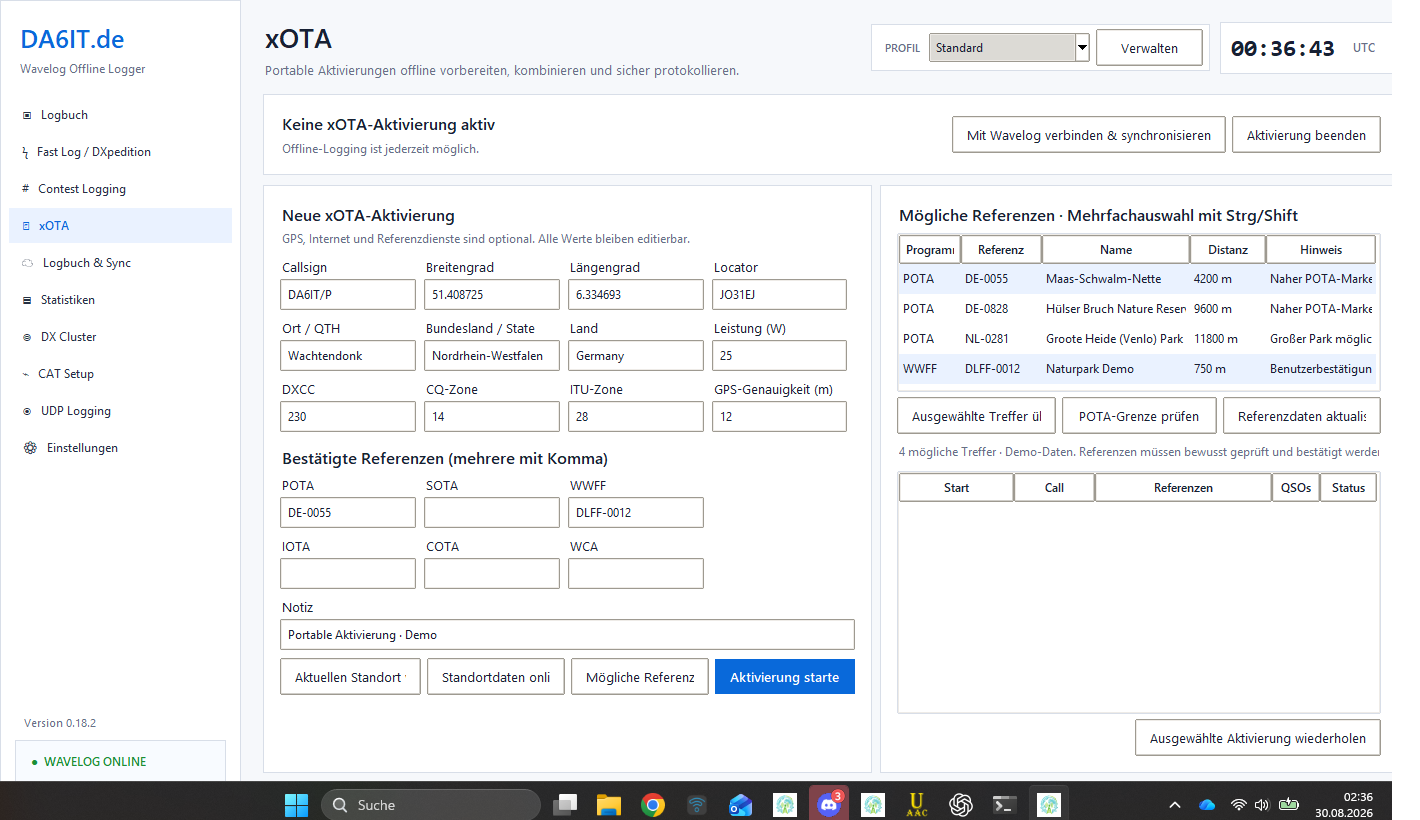
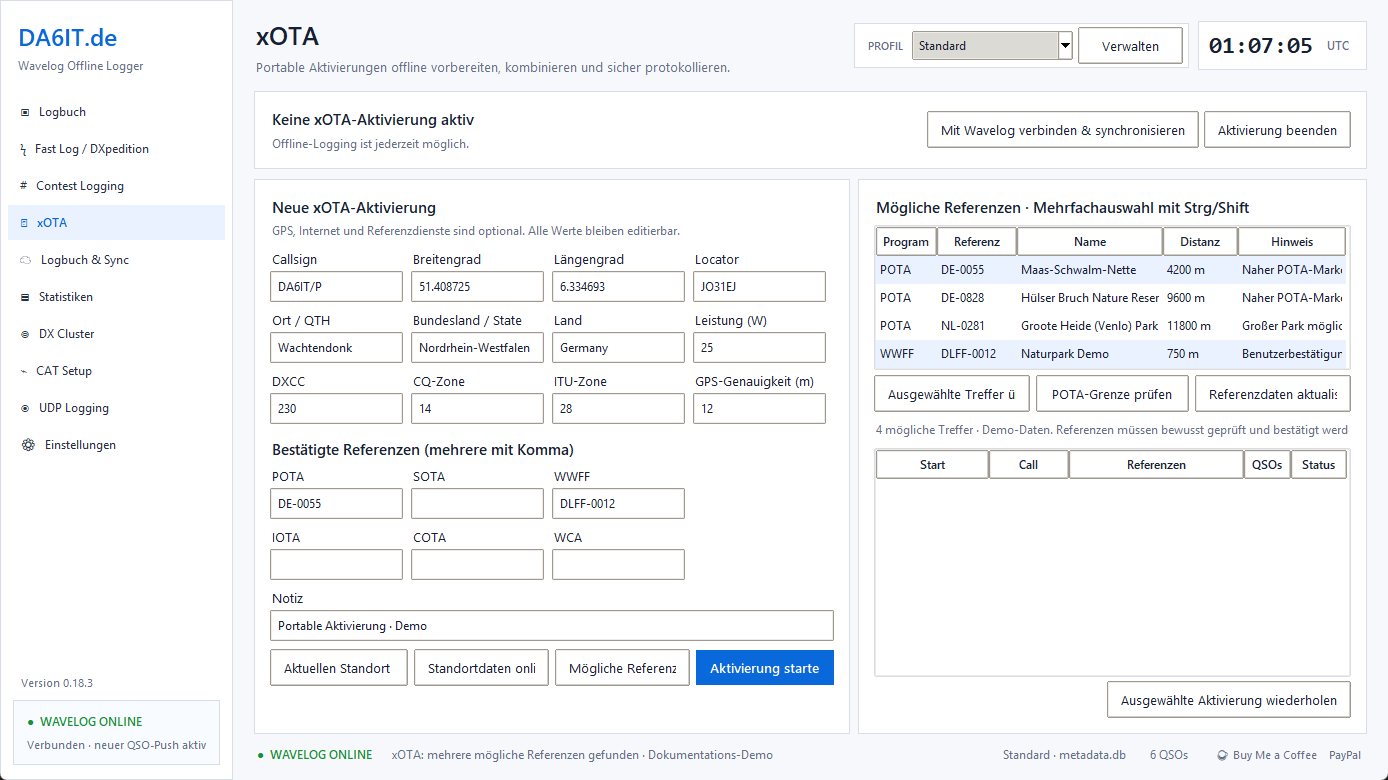
Release v0.18.3

diff --git a/scripts/capture-doc-screenshots.py b/scripts/capture-doc-screenshots.py
@@ -86,6 +86,43 @@ def main() -> int:
     created: list[Path] = []
     root: LoggerApp | None = None
 
+    class Rect(ctypes.Structure):
+        _fields_ = (
+            ("left", ctypes.c_long), ("top", ctypes.c_long),
+            ("right", ctypes.c_long), ("bottom", ctypes.c_long),
+        )
+
+    def windows_work_area() -> tuple[int, int, int, int]:
+        """Return the desktop work area, explicitly excluding the taskbar."""
+        if os.name != "nt":
+            return (0, 0, 10000, 10000)
+        rect = Rect()
+        if not ctypes.windll.user32.SystemParametersInfoW(0x0030, 0, ctypes.byref(rect), 0):
+            raise ctypes.WinError()
+        return (int(rect.left), int(rect.top), int(rect.right), int(rect.bottom))
+
+    work_left, work_top, work_right, work_bottom = windows_work_area()
+
+    def fit_window(widget: tk.Misc, width: int, height: int, x: int = 20, y: int = 8) -> None:
+        """Place a window completely inside the taskbar-free work area."""
+        x = max(work_left, min(int(x), work_right - 200))
+        y = max(work_top, min(int(y), work_bottom - 150))
+        # Tk geometry describes the client area. Windows adds the resize
+        # border and title bar outside it (8 px per side and about 31 px at
+        # the active DPI on a normal Windows 11 setup). Keep a deliberately
+        # larger reserve so the complete top-level HWND remains inside the
+        # taskbar-free work area at other DPI settings as well.
+        decoration_width = 32
+        decoration_height = 64
+        safe_width = min(int(width), work_right - x - decoration_width)
+        safe_height = min(int(height), work_bottom - y - decoration_height)
+        if safe_width < 800 or safe_height < 540:
+            raise RuntimeError(
+                f"Desktop work area is too small for documentation capture: "
+                f"{work_right - work_left}x{work_bottom - work_top}"
+            )
+        widget.geometry(f"{safe_width}x{safe_height}+{x}+{y}")
+
     def settle(widget: tk.Misc, delay: float = 0.22) -> None:
         widget.update_idletasks()
         widget.update()
@@ -113,11 +150,20 @@ def main() -> int:
         height = widget.winfo_height()
         if width < 10 or height < 10:
             raise RuntimeError(f"Widget for {filename} has no usable size: {width}x{height}")
+        if x < work_left or y < work_top or x + width > work_right or y + height > work_bottom:
+            raise RuntimeError(
+                f"Screenshot {filename} would include non-work-area pixels "
+                f"(window={x},{y},{width}x{height}; work area="
+                f"{work_left},{work_top},{work_right},{work_bottom})."
+            )
         target = output / filename
         target.parent.mkdir(parents=True, exist_ok=True)
-        # Use Windows' built-in System.Drawing instead of Pillow. This keeps
-        # documentation capture independent from a system Python/Pillow
-        # installation and avoids ACL differences in sandbox-built packages.
+        # Copy exactly the Tk client rectangle. fit_window() keeps that
+        # rectangle inside the taskbar-free work area and the documentation
+        # window is topmost, so no desktop, taskbar, title bar or surrounding
+        # pixels can enter the image. Avoid PrintWindow here: it sends a
+        # synchronous paint request to Tk while this thread waits for the
+        # helper and can therefore crash the Tcl/Tk process on Windows.
         capture_command = r"""
 $ErrorActionPreference = 'Stop'
 Add-Type -AssemblyName System.Drawing
@@ -212,7 +258,7 @@ try {
         """Exercise every main page at representative supported sizes."""
         page_names = ("log", "fast_log", "contest", "xota", "qsos", "stats", "cat", "dx_cluster", "udp_log", "settings")
         for width, height in ((900, 580), (1100, 680), (1355, 790), (1420, 820)):
-            window.geometry(f"{width}x{height}+20+20")
+            fit_window(window, width, height, 20, 8)
             settle(window, 0.04)
             for page_name in page_names:
                 window._show_page(page_name)
@@ -267,7 +313,7 @@ try {
 
     try:
         root = LoggerApp()
-        root.geometry("1420x820+40+40")
+        fit_window(root, 1420, 820, 20, 8)
         root.attributes("-topmost", True)
         settle(root, 0.35)
 
@@ -293,7 +339,7 @@ try {
         root.db.set_token("wl2_documentation_demo_token")
         root._load_settings_to_ui()
         validate_responsive_pages(root)
-        root.geometry("1420x820+40+40")
+        fit_window(root, 1420, 820, 20, 8)
         settle(root)
         root.set_station_profile.set("DA6IT Portable · Profil-ID 1")
 
@@ -373,7 +419,7 @@ try {
 
         # Contest Logging needs a little more vertical room than the other
         # pages so its header and complete session card remain visible.
-        root.geometry("1420x900+40+20")
+        fit_window(root, 1420, 900, 20, 8)
         root._show_page("contest")
         root.contest_preset_var.set("Dokumentations-Contest")
         root.contest_call_var.set("OK1DIX")
@@ -394,7 +440,7 @@ try {
         for line in ("026  I0VCE      30m CW", "025  HB9JCL     17m FT8", "024  F5RRS      15m USB"):
             root.contest_recent.insert("end", line)
         capture(root, "contest-logging.png")
-        root.geometry("1420x820+40+40")
+        fit_window(root, 1420, 820, 20, 8)
 
         # xOTA with several deliberately unconfirmed references. No GPS,
         # network service or real Wavelog station is contacted.
@@ -514,7 +560,7 @@ try {
             encoding="utf-8",
         )
         root = LoggerApp()
-        root.geometry("1420x820+40+40")
+        fit_window(root, 1420, 820, 20, 8)
         root.attributes("-topmost", True)
         root.call_var.set("DL1ABC")
         root.freq_var.set("14.205")

diff --git a/whats_new.py b/whats_new.py
@@ -2,6 +2,10 @@ from __future__ import annotations
 
 
 WHATS_NEW: dict[str, tuple[str, ...]] = {
+    "0.18.3": (
+        "Dokumentations-Screenshots werden jetzt garantiert ohne Windows-Taskleiste aufgenommen.",
+        "Die vollständige deutsche und englische Dokumentation aus v0.18.2 ist enthalten.",
+    ),
     "0.18.2": (
         "Die gesamte Oberfläche ist jetzt durchgängig auf Deutsch und Englisch verfügbar.",
         "Handbuch, Fehlerhilfe, Release-Dokumentation und Screenshot-Galerie liegen vollständig in beiden Sprachen bei.",
@@ -17,6 +21,10 @@ WHATS_NEW: dict[str, tuple[str, ...]] = {
 }
 
 WHATS_NEW_EN: dict[str, tuple[str, ...]] = {
+    "0.18.3": (
+        "Documentation screenshots are now guaranteed to exclude the Windows taskbar.",
+        "The complete German and English documentation from v0.18.2 is included.",
+    ),
     "0.18.2": (
         "The complete user interface is now consistently available in German and English.",
         "The user guide, troubleshooting, release documentation and screenshot gallery are included in both languages.",

diff --git a/bootstrap_windows.go b/bootstrap_windows.go
@@ -21,7 +21,7 @@ import (
 )
 
 const (
-	appVersion   = "0.18.2"
+	appVersion   = "0.18.3"
 	pythonURL    = "https://www.python.org/ftp/python/3.12.10/python-3.12.10-amd64.exe"
[1 lines of base64/hex data omitted]
 
@@ -466,7 +466,7 @@ func main() {
 	}
 	base := filepath.Join(local, "AFU-Tools", "WavelogOfflineLogger")
 	runtimeDir := filepath.Join(base, "runtime", "python312")
-	appDir := filepath.Join(base, "app-v0182")
+	appDir := filepath.Join(base, "app-v0183")
 
 	if err := writeAppFiles(appDir); err != nil {
 		messageBox("DA6IT.de Logger - Startfehler", "Programmdateien konnten nicht vorbereitet werden:\n"+err.Error(), 0x10)

diff --git a/selftest.py b/selftest.py
@@ -444,6 +444,7 @@ with TemporaryDirectory() as d:
 
 assert notes_for_version("0.18.0", "de") and notes_for_version("0.18.0", "en")
 assert notes_for_version("0.18.2", "de") and notes_for_version("0.18.2", "en")
+assert notes_for_version("0.18.3", "de") and notes_for_version("0.18.3", "en")
 print("BACKUP AND WHAT'S NEW SELFTEST OK")
 
 # Legacy v0.9 migration: copy single-profile metadata without touching rollback file.

diff --git a/logger_core.py b/logger_core.py
@@ -23,7 +23,7 @@ from pathlib import Path
 from typing import Any, Iterable
 
 APP_NAME = "DA6IT.de Wavelog Offline Logger"
-VERSION = "0.18.2"
+VERSION = "0.18.3"
 ADIF_VERSION = "3.1.7"
 USER_AGENT = f"DA6IT.de-Wavelog-Offline-Logger/{VERSION}"
 APP_ID_FIELD = "APP_AFUTOOLS_ID"

diff --git a/docs/RELEASE_NOTES.md b/docs/RELEASE_NOTES.md
@@ -1,8 +1,8 @@
-# DA6IT.de Wavelog Offline Logger v0.18.2
+# DA6IT.de Wavelog Offline Logger v0.18.3
 
 ## Deutsch
 
-v0.18.2 liefert erstmals das **gesamte Release vollständig auf Deutsch und Englisch** aus. Die Sprachwahl unter **Einstellungen → Allgemein** gilt für alle Stationsprofile. Neben Navigation und Hauptseiten sind nun auch Dialoge, Sicherheitsabfragen, Updates, Backup/Restore, Contest, xOTA, CAT, DX Cluster, UDP und dynamische Statusmeldungen durchgängig übersetzt.
+v0.18.3 ist das Dokumentations-Hotfix für das vollständig zweisprachige Release. Sämtliche deutschen und englischen Screenshots werden neu erzeugt und liegen garantiert vollständig innerhalb des Windows-Arbeitsbereichs – die Taskleiste erscheint nicht mehr in den Bildern. Eine Aufnahme außerhalb dieses Bereichs lässt das Release jetzt hart fehlschlagen.
 
 Neu im Release:
 
@@ -15,15 +15,15 @@ Neu im Release:
 
 Die Funktionen von v0.18.1 bleiben vollständig erhalten: Offline-first ADI, Wavelog-Sync, QRZ/Wavelog-Callbook, WSJT-X Live/UDP, CAT/Hamlib, DX Cluster, Contest, xOTA, Backup/Restore und verifizierte Updates.
 
-v0.18.2 wird weiterhin bewusst **ohne Windows-Code-Signatur** veröffentlicht. Die [Code-Signing-Richtlinie](https://github.com/DA6IT/Wavelog-Offline-Logger/blob/v0.18.2/CODE_SIGNING_POLICY.md) beschreibt den geplanten SignPath-Prozess.
+v0.18.3 wird weiterhin bewusst **ohne Windows-Code-Signatur** veröffentlicht. Die [Code-Signing-Richtlinie](https://github.com/DA6IT/Wavelog-Offline-Logger/blob/v0.18.3/CODE_SIGNING_POLICY.md) beschreibt den geplanten SignPath-Prozess.
 
-Dokumentation: [Deutsch](https://github.com/DA6IT/Wavelog-Offline-Logger/blob/v0.18.2/docs/USER_GUIDE.md) · [English](https://github.com/DA6IT/Wavelog-Offline-Logger/blob/v0.18.2/docs/en/USER_GUIDE.md)
+Dokumentation: [Deutsch](https://github.com/DA6IT/Wavelog-Offline-Logger/blob/v0.18.3/docs/USER_GUIDE.md) · [English](https://github.com/DA6IT/Wavelog-Offline-Logger/blob/v0.18.3/docs/en/USER_GUIDE.md)
 
 ---
 
 ## English
 
-v0.18.2 is the first release in which the **entire release is available in both German and English**. The language selected under **Settings → General** applies to every station profile. Navigation, main pages, dialogs, safety confirmations, updates, backup/restore, contest, xOTA, CAT, DX Cluster, UDP and dynamic status messages are now consistently localized.
+v0.18.3 is the documentation hotfix for the fully bilingual release. Every German and English screenshot is regenerated strictly inside the taskbar-free Windows work area, so the taskbar is no longer visible. Capture now fails hard if any requested rectangle leaves that area.
 
 New in this release:
 
@@ -36,6 +36,6 @@ New in this release:
 
 All v0.18.1 functionality remains included: offline-first ADI, Wavelog sync, QRZ/Wavelog callbook, WSJT-X live/UDP, CAT/Hamlib, DX Cluster, contest, xOTA, backup/restore and verified updates.
 
-v0.18.2 is still intentionally published **without a Windows code signature**. The [code-signing policy](https://github.com/DA6IT/Wavelog-Offline-Logger/blob/v0.18.2/CODE_SIGNING_POLICY.md) documents the planned SignPath process.
+v0.18.3 is still intentionally published **without a Windows code signature**. The [code-signing policy](https://github.com/DA6IT/Wavelog-Offline-Logger/blob/v0.18.3/CODE_SIGNING_POLICY.md) documents the planned SignPath process.
 
-Documentation: [Deutsch](https://github.com/DA6IT/Wavelog-Offline-Logger/blob/v0.18.2/docs/USER_GUIDE.md) · [English](https://github.com/DA6IT/Wavelog-Offline-Logger/blob/v0.18.2/docs/en/USER_GUIDE.md)
+Documentation: [Deutsch](https://github.com/DA6IT/Wavelog-Offline-Logger/blob/v0.18.3/docs/USER_GUIDE.md) · [English](https://github.com/DA6IT/Wavelog-Offline-Logger/blob/v0.18.3/docs/en/USER_GUIDE.md)

diff --git a/docs/SIGNPATH_SETUP.md b/docs/SIGNPATH_SETUP.md
@@ -1,10 +1,10 @@
-# SignPath-Einrichtung nach v0.18.2
+# SignPath-Einrichtung nach v0.18.3
 
-Dieses Dokument ist die Maintainer-Checkliste für die Bewerbung und spätere CI-Integration. v0.18.2 wird noch unsigniert, aber bereits mit den später zu prüfenden Windows-Dateimetadaten veröffentlicht. Ein aktiver Workflow wird erst ergänzt, wenn SignPath das Projekt angenommen und die konkreten Organisations-, Projekt- und Richtlinienkennungen bereitgestellt hat; Platzhalter-Geheimnisse sollen keinen Release-Workflow absichtlich fehlschlagen lassen.
+Dieses Dokument ist die Maintainer-Checkliste für die Bewerbung und spätere CI-Integration. v0.18.3 wird noch unsigniert, aber bereits mit den später zu prüfenden Windows-Dateimetadaten veröffentlicht. Ein aktiver Workflow wird erst ergänzt, wenn SignPath das Projekt angenommen und die konkreten Organisations-, Projekt- und Richtlinienkennungen bereitgestellt hat; Platzhalter-Geheimnisse sollen keinen Release-Workflow absichtlich fehlschlagen lassen.
 
 ## Vor der Bewerbung
 
-- v0.18.2 mit Windows-Artefakt, `VERSIONINFO` und vollständiger zweisprachiger Dokumentation veröffentlichen.
+- v0.18.3 mit Windows-Artefakt, `VERSIONINFO` und vollständiger zweisprachiger Dokumentation veröffentlichen.
 - In GitHub für das Maintainer-Konto Mehrfaktor-Authentifizierung aktivieren.
 - Unter **Settings → Security** nach Möglichkeit Private Vulnerability Reporting aktivieren.
 - Prüfen, dass README und Release-Seite auf **Code signing policy** und **Privacy policy** verweisen.

diff --git a/docs/RELEASING.md b/docs/RELEASING.md
@@ -66,7 +66,7 @@ Tags mit Bindestrich wie `v0.17.0-rc1` werden als Vorabversion veröffentlicht.
 
 ## Windows-Code-Signierung
 
-v0.18.2 wird noch unsigniert veröffentlicht und dient anschließend als bestehendes, dokumentiertes Referenzrelease für die SignPath-Bewerbung. Es enthält bereits die später einzuschränkenden Windows-`VERSIONINFO`-Werte. Die öffentlichen Voraussetzungen und Rollen stehen in `CODE_SIGNING_POLICY.md`, der Datenschutz in `PRIVACY.md`; die konkrete Maintainer-Checkliste befindet sich in `docs/SIGNPATH_SETUP.md`.
+v0.18.3 wird noch unsigniert veröffentlicht und dient anschließend als bestehendes, dokumentiertes Referenzrelease für die SignPath-Bewerbung. Es enthält bereits die später einzuschränkenden Windows-`VERSIONINFO`-Werte. Die öffentlichen Voraussetzungen und Rollen stehen in `CODE_SIGNING_POLICY.md`, der Datenschutz in `PRIVACY.md`; die konkrete Maintainer-Checkliste befindet sich in `docs/SIGNPATH_SETUP.md`.
 
 Erst nach Annahme des Projekts werden die echten SignPath-Kennungen und Secrets in GitHub eingerichtet und der Release-Workflow erweitert. Bis dahin darf kein Workflow mit geratenen Platzhaltern aktiviert werden. Nach der Integration muss die von SignPath zurückgegebene EXE vor Veröffentlichung mit `Get-AuthenticodeSignature` geprüft werden; die SHA-256-Datei wird erst für das endgültige signierte Artefakt erzeugt.
 

diff --git a/docs/en/RELEASE_NOTES.md b/docs/en/RELEASE_NOTES.md
@@ -1,6 +1,6 @@
-# DA6IT.de Wavelog Offline Logger v0.18.2
+# DA6IT.de Wavelog Offline Logger v0.18.3
 
-Version 0.18.2 completes the English localization of the application and the entire public release material. Select **English** under **Settings → General**, save and restart. The preference applies to all station profiles.
+Version 0.18.3 corrects the documentation capture of the fully bilingual release. Every screenshot is regenerated inside the taskbar-free Windows work area, and the release now aborts if a capture rectangle would include taskbar pixels. Select **English** under **Settings → General**, save and restart; the preference applies to all station profiles.
 
 The release includes:
 
@@ -11,4 +11,4 @@ The release includes:
 - both languages in packaged documentation
 - release checks for all German and English documentation screenshots
 
-The application remains offline-first: every QSO is written to ADI locally before optional Wavelog transfer. There is no telemetry or usage counting. Version 0.18.2 remains intentionally unsigned while SignPath onboarding is prepared.
+The application remains offline-first: every QSO is written to ADI locally before optional Wavelog transfer. There is no telemetry or usage counting. Version 0.18.3 remains intentionally unsigned while SignPath onboarding is prepared.

diff --git a/docs/en/SIGNPATH_SETUP.md b/docs/en/SIGNPATH_SETUP.md
@@ -1,7 +1,7 @@
-# SignPath setup after 0.18.2
+# SignPath setup after 0.18.3
 
 [Deutsch](../SIGNPATH_SETUP.md) · **English**
 
-0.18.2 is intentionally published unsigned, with the same Windows filename, `VERSIONINFO`, GitHub Actions artifact and checksum format intended for future signing. The repository already documents privacy, uninstall, third-party runtime, authors/reviewers/approvers and security contact.
+0.18.3 is intentionally published unsigned, with the same Windows filename, `VERSIONINFO`, GitHub Actions artifact and checksum format intended for future signing. The repository already documents privacy, uninstall, third-party runtime, authors/reviewers/approvers and security contact.
 
 After acceptance, obtain the real Organization ID, Project Slug, Signing Policy Slug, Artifact Configuration Slug if applicable, and API token. Then insert `signpath/github-action-submit-signing-request@v2` between the unsigned Windows artifact and checksum/release steps. Require manual approval, verify the returned Authenticode signature, and calculate the public SHA-256 only after signing. Do not add placeholder secrets or a deliberately failing workflow before acceptance.

diff --git a/CODE_SIGNING_POLICY.md b/CODE_SIGNING_POLICY.md
@@ -4,7 +4,7 @@ The DA6IT.de Wavelog Offline Logger is preparing to use SignPath for future Wind
 
 **Free code signing provided by SignPath.io, certificate by SignPath Foundation**
 
-Versions 0.18.1 and 0.18.2 are intentionally released before the SignPath application and therefore remain unsigned. They contain the same Windows file metadata and release format intended for later signing. The statement above documents the policy that will apply after the project has been accepted; it does not claim that an unsigned artifact already has a signature. Release notes always state the actual signing status.
+Versions 0.18.1 through 0.18.3 are intentionally released before the SignPath application and therefore remain unsigned. They contain the same Windows file metadata and release format intended for later signing. The statement above documents the policy that will apply after the project has been accepted; it does not claim that an unsigned artifact already has a signature. Release notes always state the actual signing status.
 
 ## Project roles
 

diff --git a/docs/en/RELEASING.md b/docs/en/RELEASING.md
@@ -6,4 +6,4 @@ Releases are tag-driven and must be built from a clean, reviewed commit. The ver
 
 The publish script creates/reuses the release branch and pull request, waits for all GitHub checks, merges, tags the exact merge commit, waits for the release workflow and verifies every expected Windows, macOS and Linux asset plus `SHA256SUMS.txt`. Release notes are bilingual. Do not manually attach locally built binaries as official artifacts.
 
-Version 0.18.2 remains unsigned while the project prepares its SignPath application. Signing integration must only be enabled after real SignPath organization/project/policy identifiers are available.
+Version 0.18.3 remains unsigned while the project prepares its SignPath application. Signing integration must only be enabled after real SignPath organization/project/policy identifiers are available.
